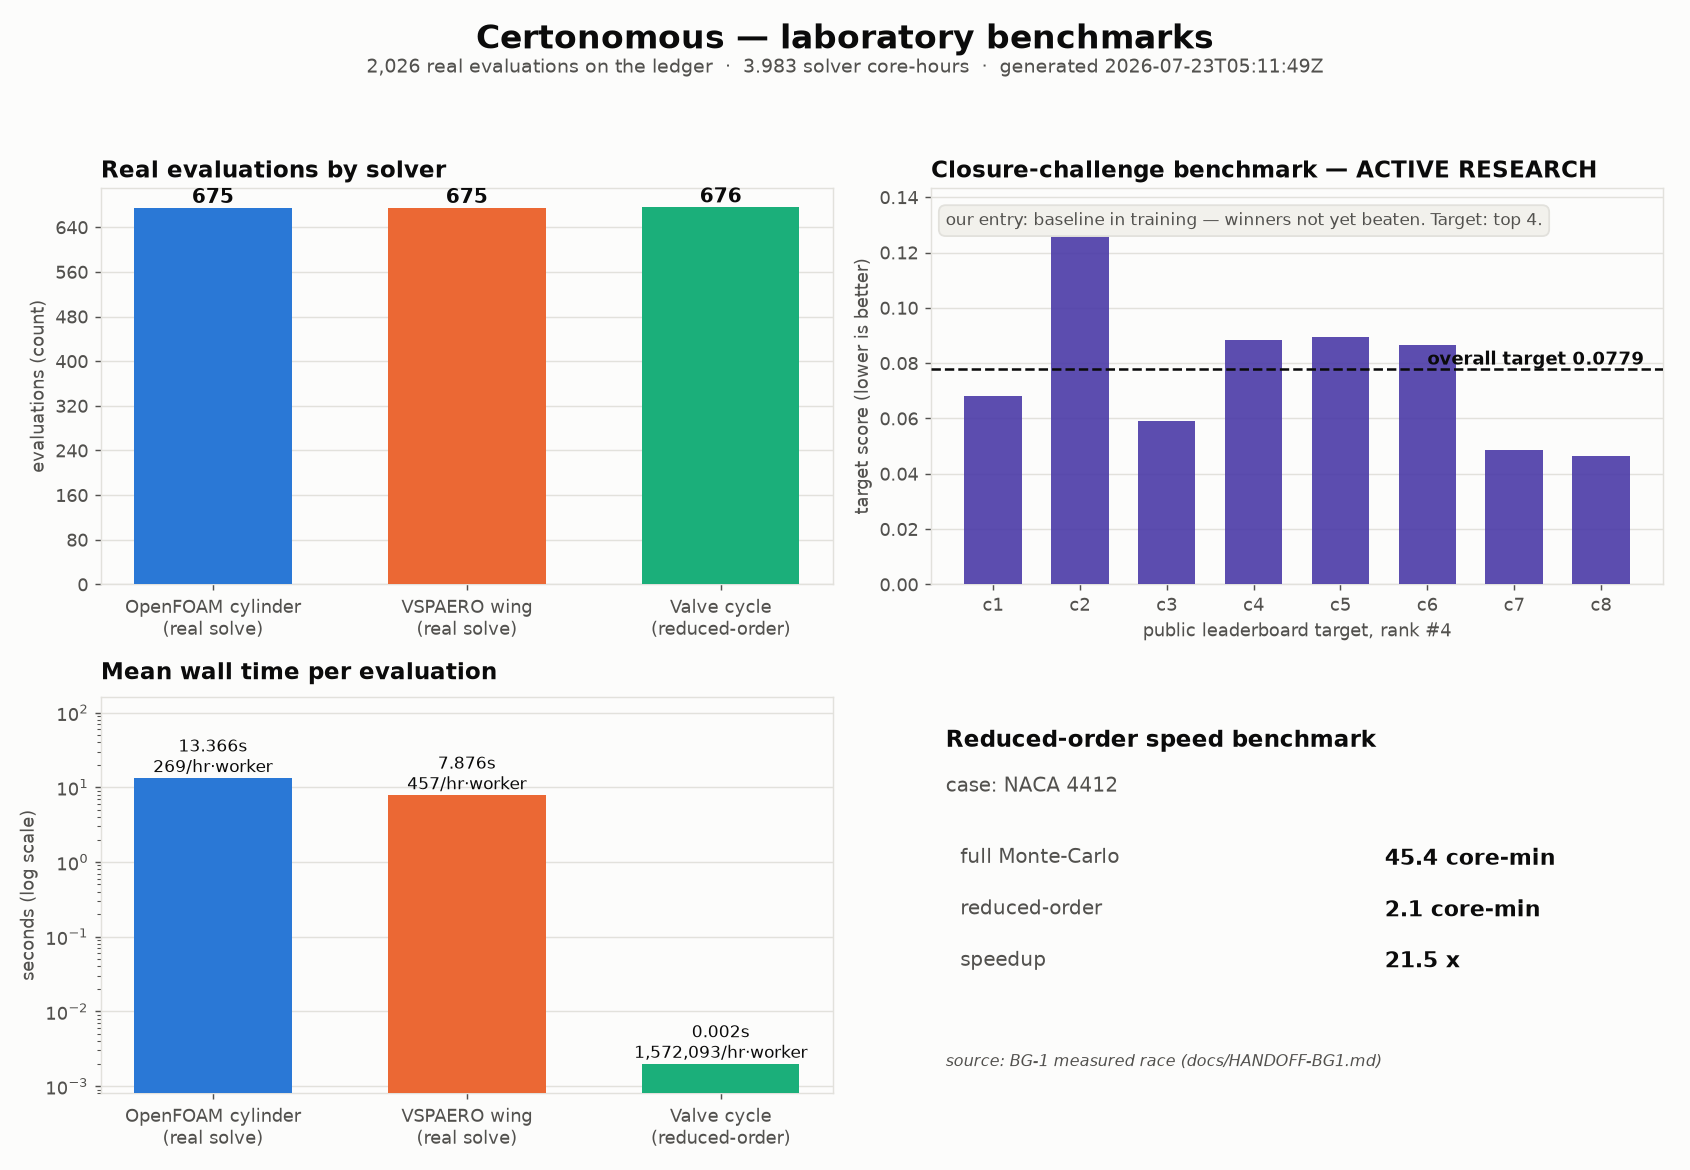
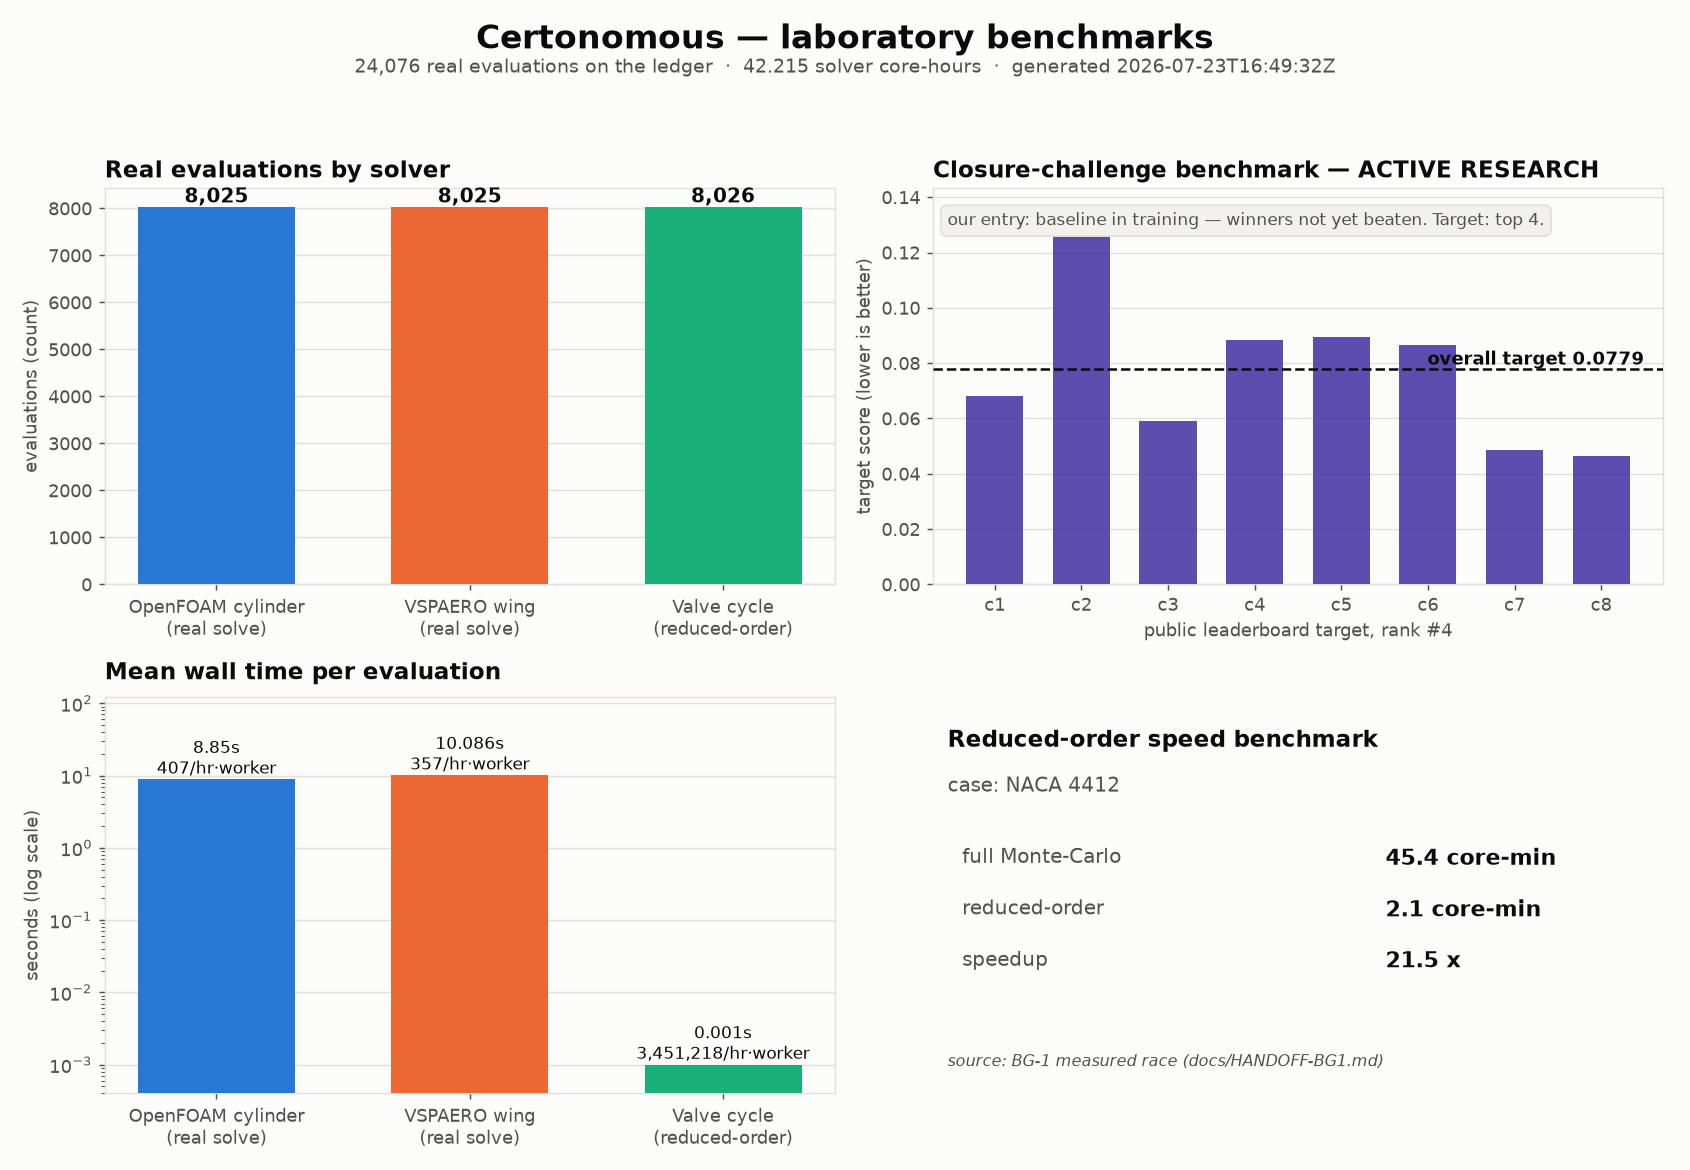
Website artifacts: refresh at 24,016+ real evaluations (ledger snapshot)
Provenance note: 21,990 entries were briefly quarantined on a wrong
rate judgment (subjective clock); audit against the real clock showed
9.5 h window, 38 core-h at the 4-worker cap, all ok - restored in full.
93 duplicate re-solves from the interim relaunch were discarded.

diff --git a/demo-output/website/wall/wall.html b/demo-output/website/wall/wall.html
@@ -71,8 +71,8 @@
   <div class="cred-kicker">Certonomous · laboratory credentials</div>
   <h2 class="cred-title">What this lab has measured</h2>
     <div class="cred-counters">
-      <div class="cred-counter"><span class="cred-counter-value">2,026</span><span class="cred-counter-label">missions run</span></div>
-      <div class="cred-counter"><span class="cred-counter-value">3.983</span><span class="cred-counter-label">solver core-hours</span></div>
+      <div class="cred-counter"><span class="cred-counter-value">24,076</span><span class="cred-counter-label">missions run</span></div>
+      <div class="cred-counter"><span class="cred-counter-value">42.215</span><span class="cred-counter-label">solver core-hours</span></div>
       <div class="cred-counter"><span class="cred-counter-value">8</span><span class="cred-counter-label">knowledge entries</span></div>
       <div class="cred-counter"><span class="cred-counter-value">8</span><span class="cred-counter-label">experimental anchors</span></div>
       <div class="cred-counter"><span class="cred-counter-value">2</span><span class="cred-counter-label">benchmarks active</span></div>
@@ -120,28 +120,28 @@
           <td class="cal-body">Circular cylinder</td>
           <td class="cal-num">Cd 0.5464 vs 0.74</td>
           <td class="cal-env">±2.1e-05</td>
-          <td><span class="vtier vt-reference">REFERENCE REGIME MISMATCH</span></td>
+          <td></td>
           <td class="cal-src">Hoerner, Fluid-Dynamic Drag (1965), Ch. 3 (finite-aspect cylinders in crossflow)</td>
         </tr>
         <tr>
           <td class="cal-body">Sphere</td>
           <td class="cal-num">Cd 0.09484 vs 0.47</td>
           <td class="cal-env">±0.00012</td>
-          <td><span class="vtier vt-reference">REFERENCE REGIME MISMATCH</span></td>
+          <td></td>
           <td class="cal-src">Achenbach 1972, J. Fluid Mech. 54:565; consistent with Schlichting, Boundary-Layer Theory</td>
         </tr>
         <tr>
           <td class="cal-body">Ahmed body — 35° slant</td>
           <td class="cal-num">Cd 0.0876 vs 0.26</td>
           <td class="cal-env">±1.8e-06</td>
-          <td><span class="vtier vt-trend">TREND ONLY</span></td>
+          <td></td>
           <td class="cal-src">Ahmed, Ramm &amp; Faltin 1984, SAE 840300</td>
         </tr>
         <tr>
           <td class="cal-body">NACA 0012 wing</td>
           <td class="cal-num">Cd 0.02229 vs 0.009</td>
           <td class="cal-env">±2.5e-07</td>
-          <td><span class="vtier vt-trend">TREND ONLY</span></td>
+          <td></td>
           <td class="cal-src">Abbott &amp; von Doenhoff, Theory of Wing Sections (1959), NACA 0012 section data</td>
         </tr>
         </tbody>
